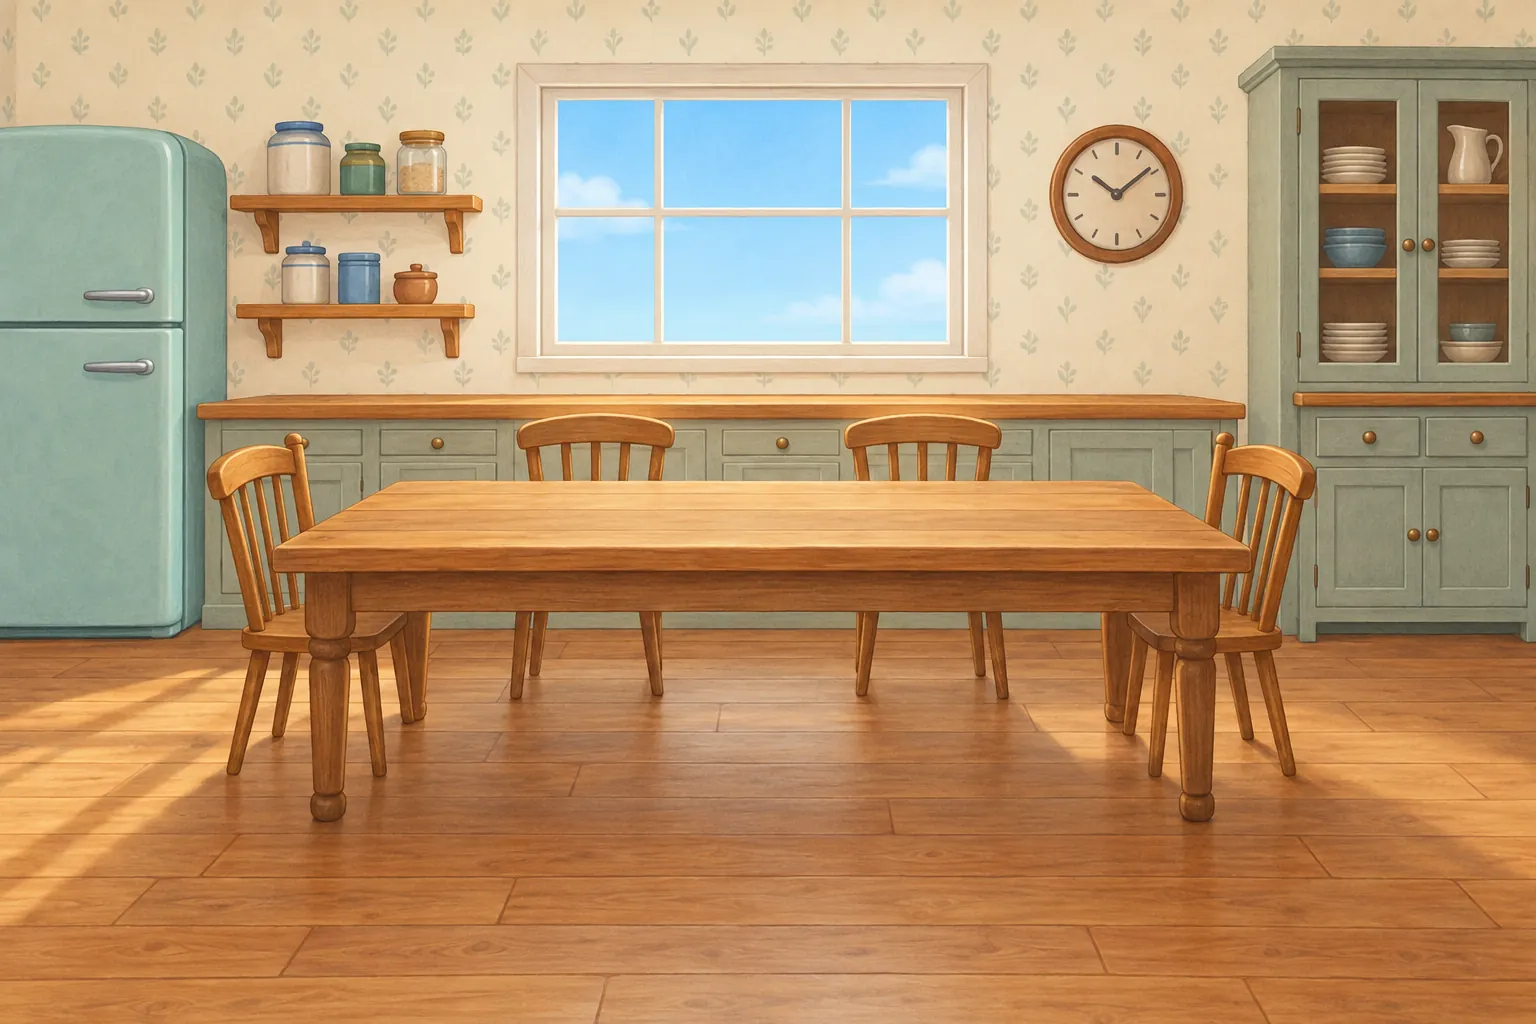
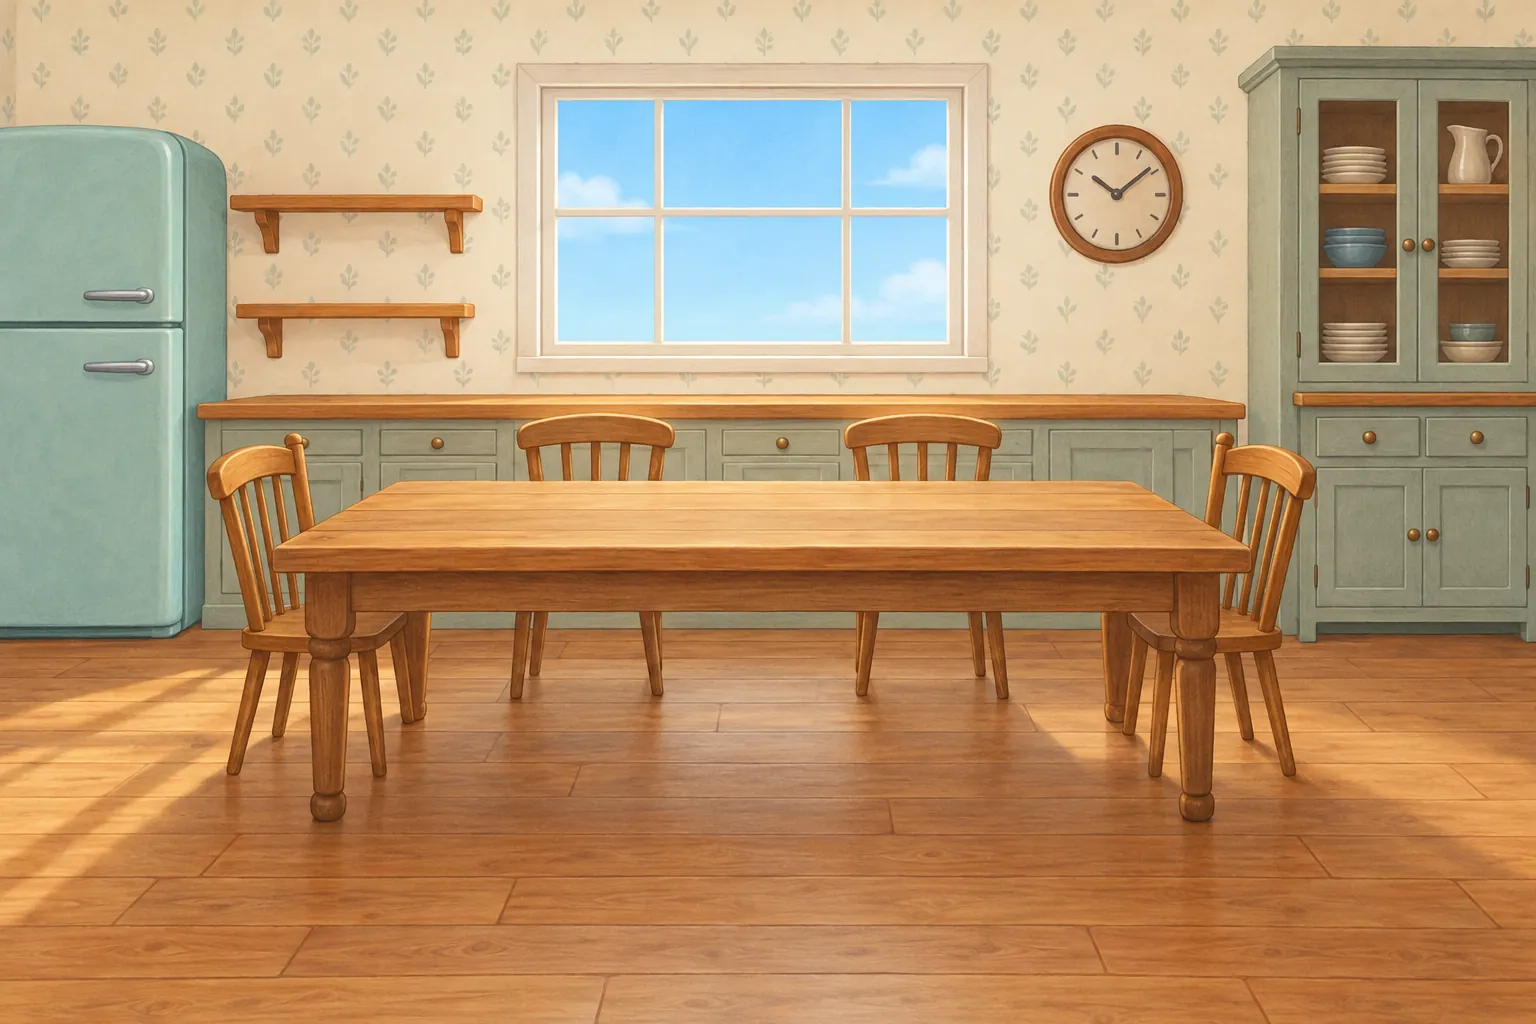
Kite rope painted, heaps spread out, kitchen shelves emptied, smoother camera flights
- The kite string was a 1 px line; it is the painted twisted rope (winda_lina, mapped to its own columns
  and proportions) along a sagging curve that ripples in the wind.
- A heap's stickers (kupka) spread wider and a little smaller: the ducklings piled on each other.
- dom: the two wall shelves are empty (only that rectangle pasted from a gpt-image edit, the rest of the
  plate pixel for pixel), so the pumpkin and the nuts no longer stand among jars; the prompt says so too.
- A flight's zoom dip never zooms out past what keeps the frame inside the design frame (the frame's
  hard limit jerked the camera sideways half way).
- one_many: the wind for the kite is said in the wide shot, not in Fox's close-up.

Changed region(s): [[0.1562, 0.0938, 0.3125, 0.3125]]

diff --git a/game/engine/oddechy.js b/game/engine/oddechy.js
@@ -5,7 +5,7 @@
 
 import * as THREE from "three";
 import { emocja } from "./efekty.js";
-import { GROUND } from "./scene.js";
+import { GROUND, texture } from "./scene.js";
 
 const FAST = new URLSearchParams(location.search).has("szybko");
 const czekaj = (S, s) => S.wait(FAST ? Math.min(s, 0.15) : s);
@@ -113,8 +113,43 @@ export async function latawiec(S, { ksztalt = "latawiec_kwadrat", kto = null, mo
   const L = kto ? S.puppets[kto] : null;
   if (kto) await mow(kto, "latawiec");                                  // how to play it
   const reka = () => (L ? [L.korzen.position.x + (L.korzen.position.x < 0 ? 0.6 : -0.6), L.korzen.position.y + L.wysokosc * 0.45] : [-3.6, -2.4]);
-  const geo = new THREE.BufferGeometry().setFromPoints([new THREE.Vector3(), new THREE.Vector3()]);
-  const sznurek = new THREE.Line(geo, new THREE.LineBasicMaterial({ color: "#5a4632" })); sznurek.renderOrder = 9.5; S.scene.add(sznurek);
+  // the string: the painted twisted rope (winda_lina) repeated along a sagging curve that ripples in the wind - a
+  // 1 px line read as a technical drawing
+  const N = 28, GRUB = 0.1, OKRES = 0.6;
+  const lina = await texture("/game/assets/objects/winda_lina.webp").catch(() => null);
+  let u0 = 0, u1 = 1;                                                   // the rope's own columns: the picture is mostly empty
+  if (lina) {
+    lina.wrapT = THREE.RepeatWrapping; lina.needsUpdate = true;
+    try {
+      const im = lina.image, c = document.createElement("canvas"); c.width = im.width; c.height = im.height;
+      const x = c.getContext("2d"); x.drawImage(im, 0, 0); const d = x.getImageData(0, 0, c.width, c.height).data;
+      const kol = []; for (let i = 0; i < c.width; i++) { let n = 0; for (let j = 0; j < c.height; j += 4) if (d[(j * c.width + i) * 4 + 3] > 40) n++; kol.push(n / (c.height / 4)); }
+      const lin = kol.map((v, i) => (v > 0.3 ? i : -1)).filter((i) => i >= 0);
+      if (lin.length) { u0 = lin[0] / c.width; u1 = (lin[lin.length - 1] + 1) / c.width; }
+    } catch { /* keep the whole width */ }
+  }
+  const geo = new THREE.BufferGeometry(), poz = new Float32Array((N + 1) * 2 * 3), uvy = new Float32Array((N + 1) * 2 * 2), idx = [];
+  for (let i = 0; i < N; i++) { const a = 2 * i; idx.push(a, a + 1, a + 2, a + 1, a + 3, a + 2); }
+  geo.setAttribute("position", new THREE.BufferAttribute(poz, 3)); geo.setAttribute("uv", new THREE.BufferAttribute(uvy, 2)); geo.setIndex(idx);
+  const sznurek = new THREE.Mesh(geo, new THREE.MeshBasicMaterial(lina ? { map: lina, transparent: true, depthWrite: false, side: THREE.DoubleSide } : { color: "#6b4a2a", side: THREE.DoubleSide }));
+  sznurek.renderOrder = 9.5; sznurek.frustumCulled = false; S.scene.add(sznurek);
+  const ulozSznurek = (ax, ay, bx, by, faza) => {
+    const dl = Math.hypot(bx - ax, by - ay), zwis = 0.12 * dl + 0.15;
+    let prev = null, droga = 0;
+    const pkt = [];
+    for (let i = 0; i <= N; i++) {
+      const t = i / N, fala = Math.sin(t * Math.PI) * 0.07 * Math.sin(faza * 3 + t * 6);
+      pkt.push([ax + (bx - ax) * t + fala * 0.5, ay + (by - ay) * t - zwis * 4 * t * (1 - t) + fala]);
+    }
+    for (let i = 0; i <= N; i++) {
+      const [x, y] = pkt[i], [x2, y2] = pkt[Math.min(N, i + 1)], [x0, y0] = pkt[Math.max(0, i - 1)];
+      let tx = x2 - x0, ty = y2 - y0; const n = Math.hypot(tx, ty) || 1; tx /= n; ty /= n;
+      if (prev) droga += Math.hypot(x - prev[0], y - prev[1]); prev = [x, y];
+      const nx = -ty * GRUB / 2, ny = tx * GRUB / 2, v = droga / OKRES;
+      poz.set([x - nx, y - ny, 0.39, x + nx, y + ny, 0.39], i * 6); uvy.set([u0, v, u1, v], i * 4);
+    }
+    geo.attributes.position.needsUpdate = true; geo.attributes.uv.needsUpdate = true;
+  };
   let y = -0.4, vy = 0, faza = 0, petla, gotowe, ost = null;
   const h = { kind: "latawiec", mesh: sznurek, base: 1, remove: () => { clearInterval(petla); S.scene.remove(sznurek); K.remove(); const i = S.objects.indexOf(h); if (i >= 0) S.objects.splice(i, 1); } };
   S.objects.push(h);
@@ -124,7 +159,7 @@ export async function latawiec(S, { ksztalt = "latawiec_kwadrat", kto = null, mo
     vy -= 0.35 * dt; vy *= 0.97; y = Math.max(-1.0, Math.min(2.7, y + vy * dt));
     const x = 0.8 + Math.sin(faza * 1.3) * 0.5 + (y + 1) * 0.35;
     K.mesh.position.set(x, y, 0.4); if (!K.petla) K.mesh.rotation.z = Math.sin(faza * 2.1) * 0.18;
-    const [rx, ry] = reka(), p = geo.attributes.position; p.setXYZ(0, rx, ry, 0.39); p.setXYZ(1, x, y - 0.55, 0.39); p.needsUpdate = true;
+    const [rx, ry] = reka(); ulozSznurek(rx, ry, x, y - 0.55, faza);
     if (y >= 2.6 && gotowe) { const g0 = gotowe; gotowe = null; g0(); }
   }, 16);
   await new Promise((ok) => {

diff --git a/game/engine/efekty.js b/game/engine/efekty.js
@@ -734,7 +734,10 @@ export async function ujecie(S, typ = "ogolny", { na = null, ciecie = null, d = 
     const dl = Math.hypot(cx - x0, cy - y0) / 6 + Math.abs(Math.log(z / z0));
     // far across the scene it rises over it: the zoom dips half way (a close-up to a close-up never slides at full zoom)
     const wznies = Math.min(0.6, Math.abs(cx - x0) / (v.w / Math.min(z, z0)) * 0.9);
-    await S.tween(Math.min(1.6, 0.7 + dl * 0.9), (s) => { const q = gladko(s); krok(q); kam.zoom = Math.max(1, kam.zoom * (1 - wznies * Math.sin(Math.PI * s))); kam.updateProjectionMatrix(); });
+    // the dip never zooms out past what keeps the frame inside the design frame there (else the frame's hard limit
+    // pulled the camera sideways half way - a jerk)
+    const doRamki = () => Math.max(1, (v.w / 2) / Math.max(0.01, ramka.w / 2 - Math.abs(kam.position.x)), (v.h / 2) / Math.max(0.01, ramka.h / 2 - Math.abs(kam.position.y)));
+    await S.tween(Math.min(1.6, 0.7 + dl * 0.9), (s) => { const q = gladko(s); krok(q); kam.zoom = Math.max(doRamki(), kam.zoom * (1 - wznies * Math.sin(Math.PI * s))); kam.updateProjectionMatrix(); });
   } else krok(1);
   await Promise.all(chody);
   S.ujecieTeraz = typ; S.ujecieNa = lista;

diff --git a/game/engine/mechaniki.js b/game/engine/mechaniki.js
@@ -226,11 +226,12 @@ export function wieza(S, { klocki, miejsca = [{ x: 0 }], podloga = GROUND + 0.02
 // rest around it, children of its group; `dzieci` are the others (a shadow is made of each)
 export async function kupka(S, name, n, { x = 0, y = 1.2, size = 1.1, z = 0.4, cicho = false } = {}) {
   const h = await S.object(name, { x, y, size, z, cicho });
-  h.icon.scale.setScalar(0.55); h.dzieci = []; h.ile = n;
+  h.icon.scale.setScalar(0.5); h.dzieci = []; h.ile = n;
   for (let j = 1; j < n; j++) {
     const a = j / (n - 1) * Math.PI * 2 + 0.5, d = await S.object(name, { size: 1, cicho: true });
     S.scene.remove(d.mesh); const i = S.objects.indexOf(d); if (i >= 0) S.objects.splice(i, 1);
-    d.mesh.position.set(Math.cos(a) * 0.34, Math.sin(a) * 0.27, 0.01 + j * 0.002); d.mesh.scale.setScalar(0.48); h.mesh.add(d.mesh); h.dzieci.push(d);   // spread a little: stuck together they read as one blob
+    // spread so each one reads on its own (0.34 piled ducklings on each other), still close enough to be one heap
+    d.mesh.position.set(Math.cos(a) * 0.5, Math.sin(a) * 0.38, 0.01 + j * 0.002); d.mesh.scale.setScalar(0.44); h.mesh.add(d.mesh); h.dzieci.push(d);
   }
   return h;
 }

diff --git a/game/lessons/one_many/lesson.js b/game/lessons/one_many/lesson.js
@@ -89,9 +89,9 @@ export default {
         await c.say("lisek", "line.a_dynia_tez", { anim: "Radosc" });
         c.clear();
         // the breather: the autumn wind - Fox's kite
+        await c.ujecie("ogolny");                                            // the wind blows over the whole scene, the kite climbs across the sky
         c.czastki("liscie", { wiatr: 1.4 });
         await c.say("lisek", "line.a_wiatr", { anim: "Podskok" });
-        await c.ujecie("ogolny");                                            // the kite climbs across the sky
         await c.latawiec({ ksztalt: "latawiec_trojkat", kto: "lisek" });
         c.czastki("liscie", { wiatr: 0.4 });
         await c.ujecie("dwuujecie", { na: ["lisek", "wiewiorka"] });

diff --git a/tools/backgrounds/make_background.py b/tools/backgrounds/make_background.py
@@ -135,8 +135,8 @@ already there. Do NOT add fruit, animals, birds or anything else.""",
         "plyta": f"""A background illustration for a children's game: the inside of a cosy,
 bright kitchen and dining room seen straight on. A big wooden table in the
 lower middle with its top COMPLETELY EMPTY, floor space in front of it where
-characters will stand. On the back wall: one large window with plain sky, a
-shelf with a few jars, a wall clock, pale patterned wallpaper. A fridge on one
+characters will stand. On the back wall: one large window with plain sky, two
+EMPTY wooden wall shelves (lessons put things there), a wall clock, pale patterned wallpaper. A fridge on one
 side, a cupboard on the other. Warm wooden floor.
 {STYL}
 Wide landscape composition.
